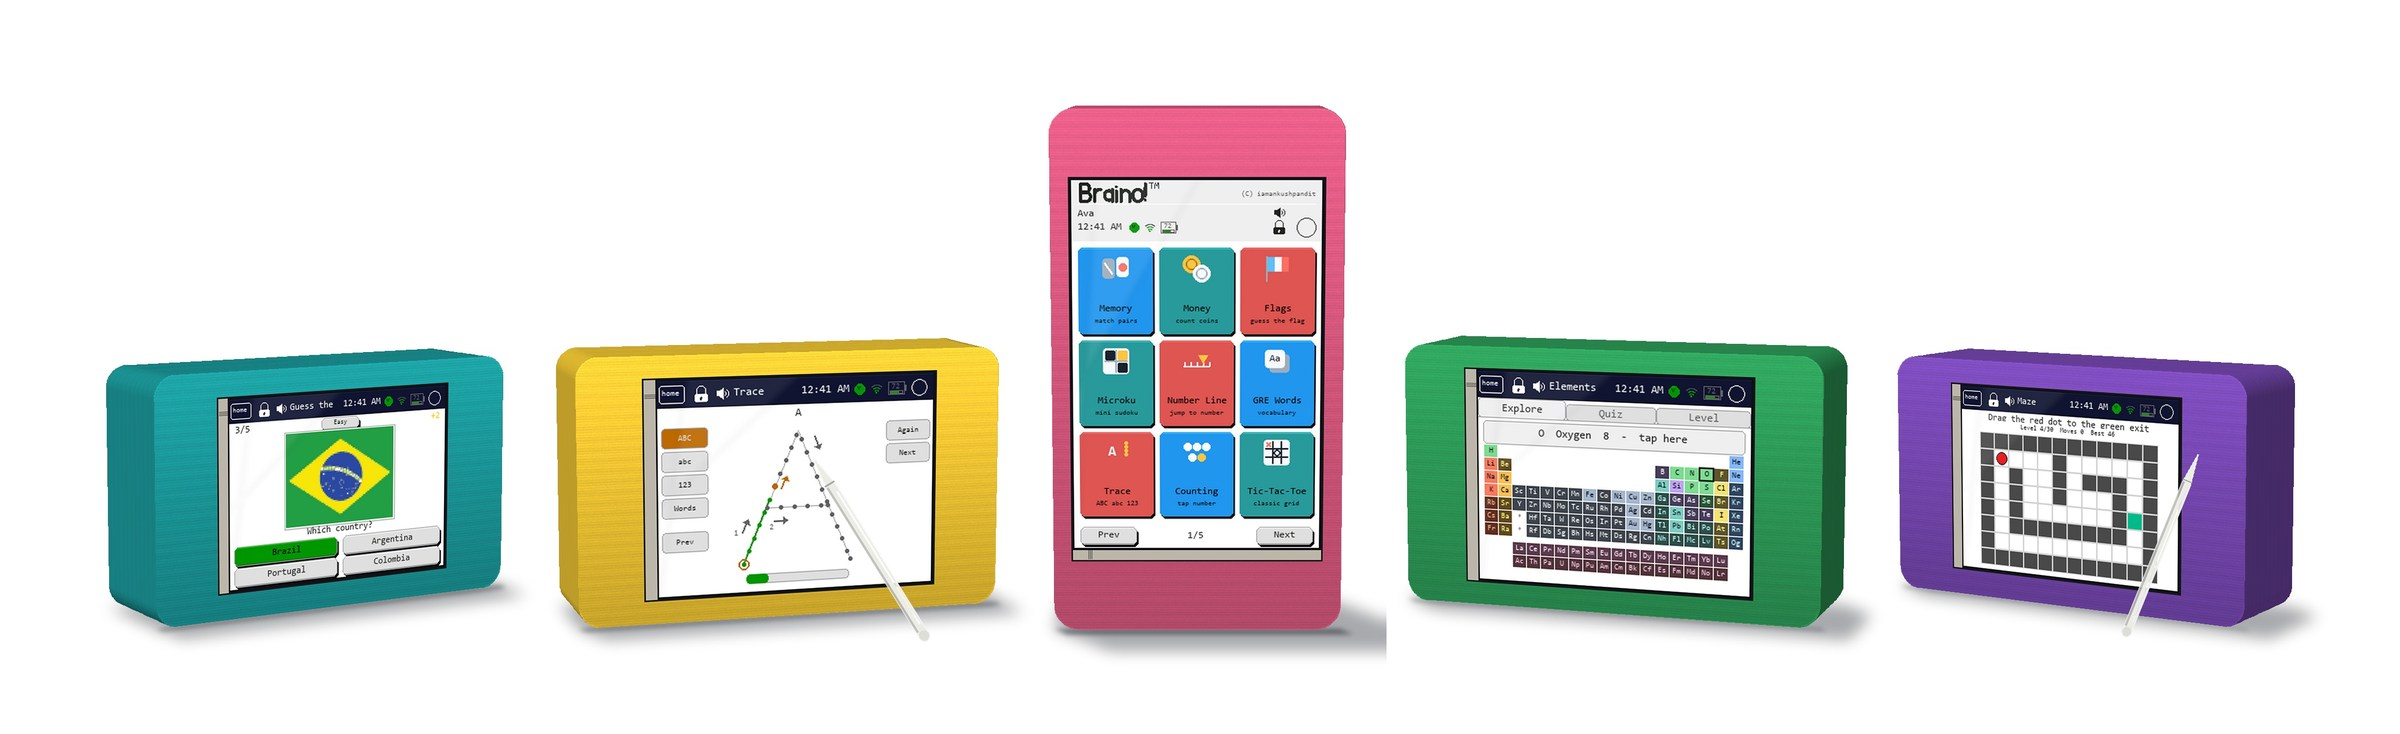
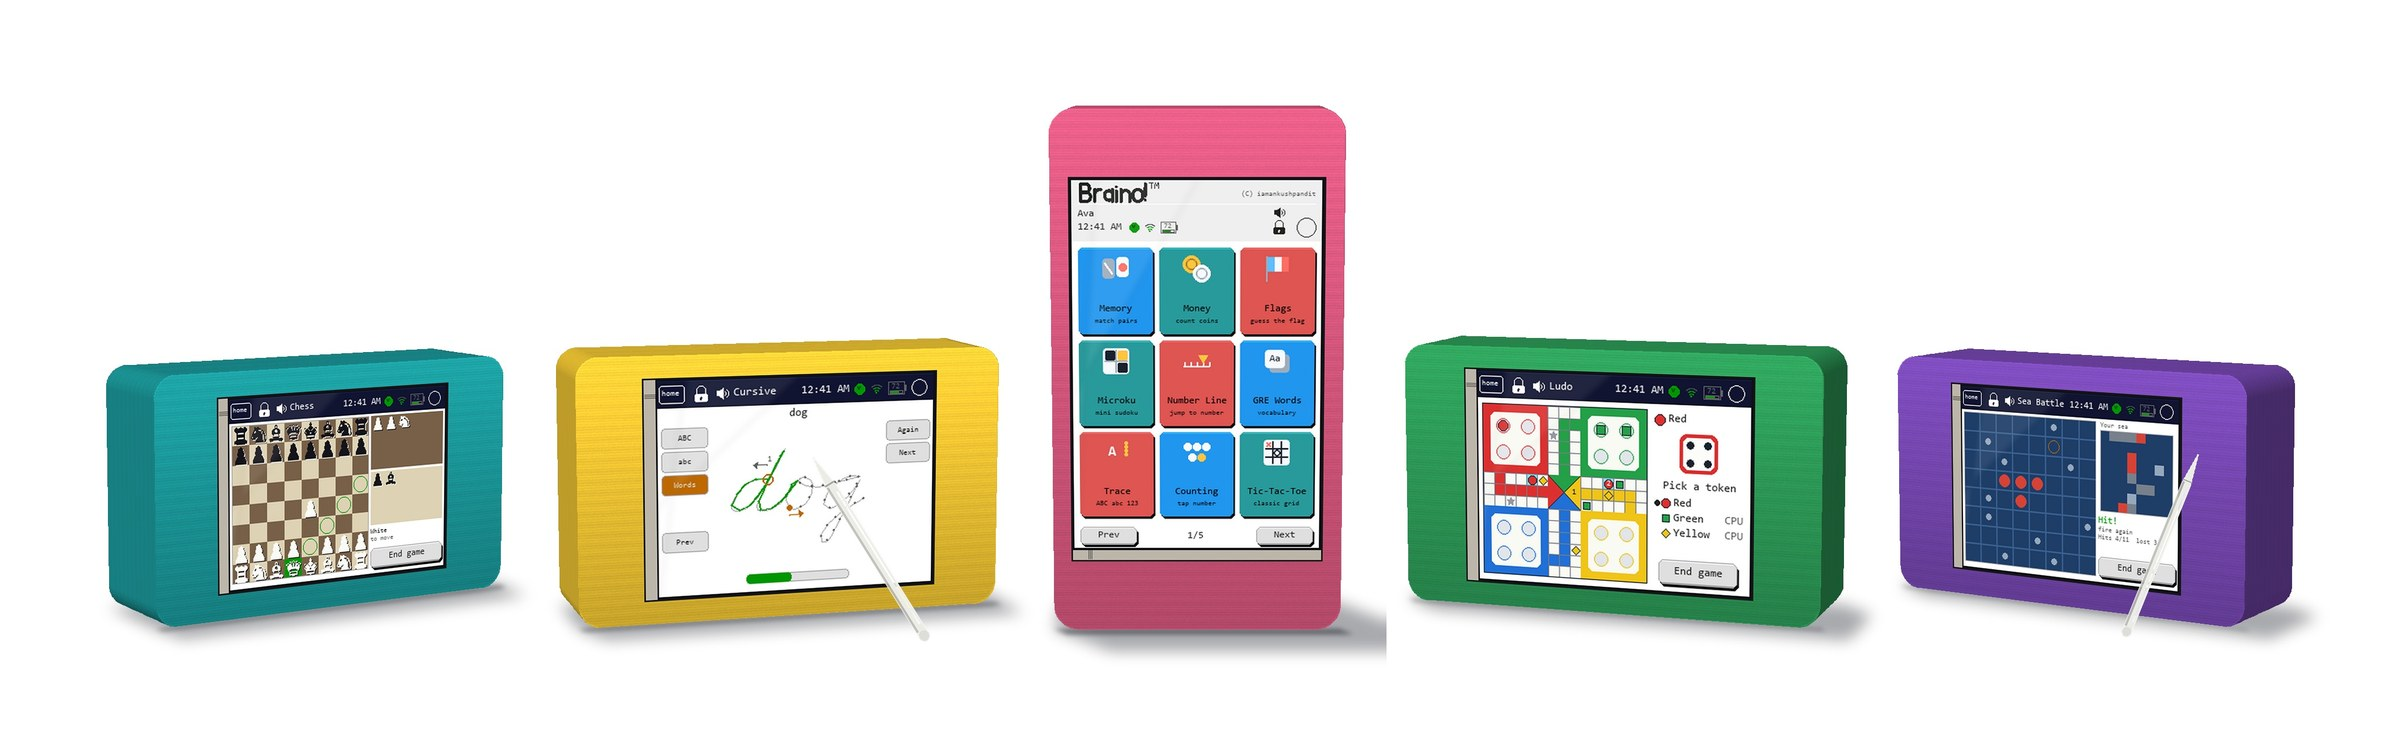
Picture every game, and generate the picture from the registry
The lineup showed six games out of forty, so the answer to "X is missing" was
going to be true however many times I swapped one screen for another. The
games section now carries a console per game -- all forty -- and the image is
built by walking AppRegistry, not a list typed into the generator. Add a game
and it appears with no edit here, which is the same reason the About screen
and the README table are derived.

The hero leads with what nothing else on a CYD does: Chess, Ludo and Sea
Battle running across consoles, and Cursive, the joined-up handwriting. A
separate frame turns four consoles towards each other for the nearby games,
and a wider one adds the two screens people forget a console needs at all --
the lock screen and the screen saver, which is a game of Pong the device plays
against itself.

Only PORTRAIT screens may go on a portrait console and only landscape on a
landscape one, which is why the catalogue is landscape throughout: playable
games are authored against a fixed landscape canvas, and a game shown on a
console stood on its end would be a picture of something the firmware cannot
do.

diff --git a/site/index.template.html b/site/index.template.html
@@ -402,6 +402,9 @@
     generated from the firmware's own registry, so it cannot drift from what is
     actually on the board.
   </p>
+  <div class="shot" style="margin-top:38px;border-radius:22px;overflow:hidden;background:#fff">
+    <img src="assets/catalogue.jpg" alt="All 40 games, one console each" loading="lazy" style="width:100%;height:auto;display:block">
+  </div>
   <div class="wall">
 {{GAME_WALL}}
   </div>

diff --git a/CHANGELOG.md b/CHANGELOG.md
@@ -2,6 +2,13 @@
 
 ## 5.14.0-SNAPSHOT — Unreleased
 
+**Every game is pictured, and the picture is generated.** The games section
+carries all forty consoles, one per game, built from `AppRegistry` rather than
+from a list typed into the generator -- so a picture that is short by two
+games cannot happen, for the same reason the About screen and the README table
+cannot go stale. The hero now leads with the games nothing else on a CYD does:
+Chess, Ludo and Sea Battle across consoles, and the joined-up handwriting.
+
 **The landing page has a product lineup.** Three board sizes turned in space,
 eight filament colours, a different game on every screen, on white. It is
 drawn rather than photographed, and every number in it is taken rather than
